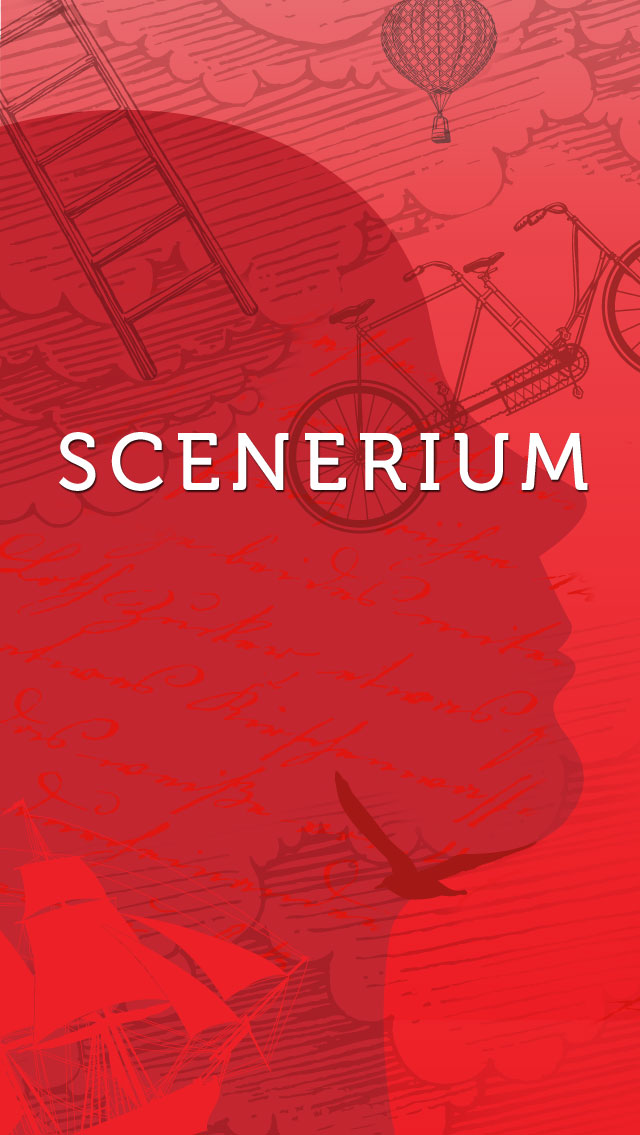
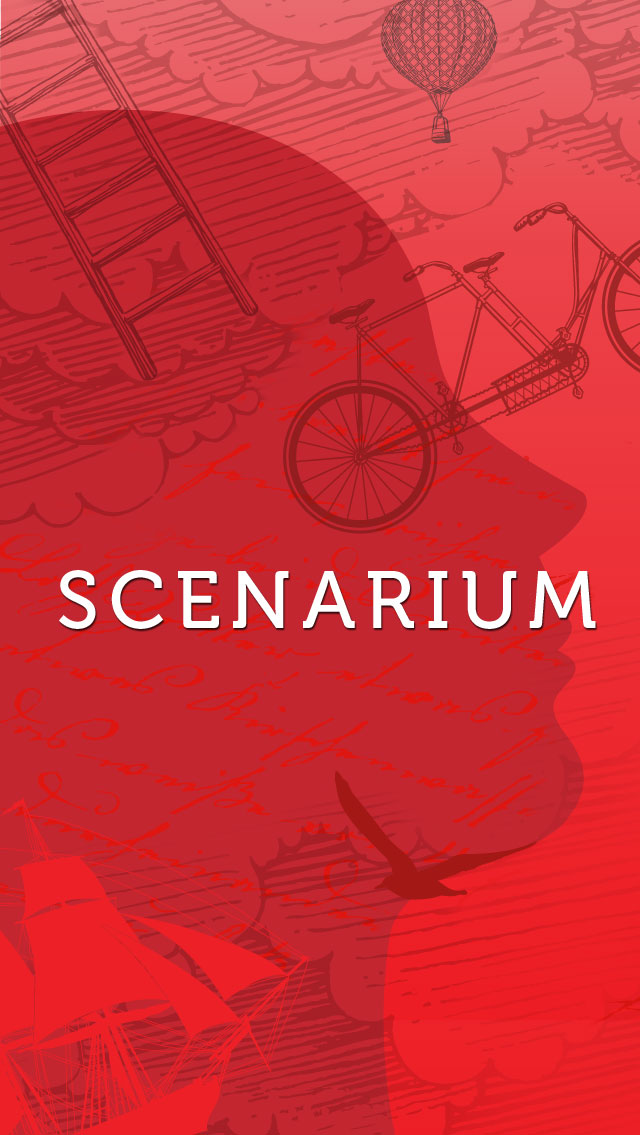
new card back with proper spelling

diff --git a/index.js b/index.js
@@ -1,12 +1,12 @@
 express = require('express')
 var app = express()
 
-/* 
-app.get('/', function(req,res){
+
+app.get('/emailsubmit', function(req,res){
 	res.send('hello world');
 });
 
-*/
+
 
 app.use(express.static(__dirname + '/public'));
 
